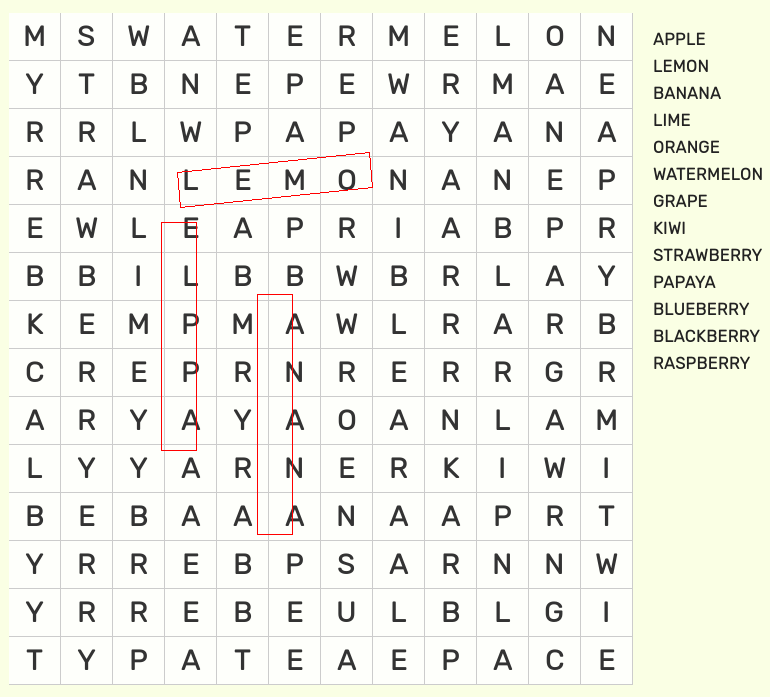
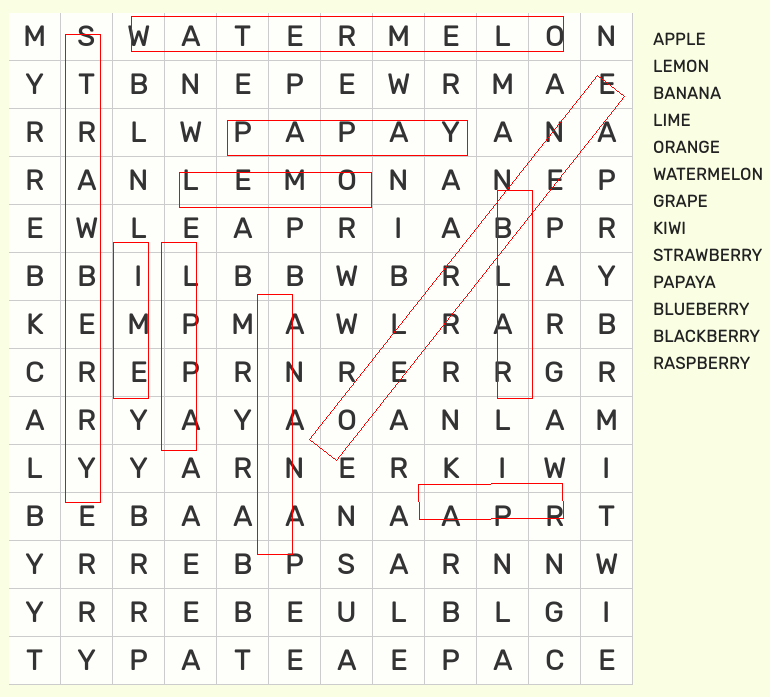
draw.c

Changed region(s): [[0.2182, 0.241, 0.2494, 0.2712]]

diff --git a/neuron_network/draw.c b/neuron_network/draw.c
@@ -123,7 +123,7 @@ void draw()
     fin_coo(coord);
     SDL_Surface *image = IMG_Load("data/images/l11.png");
     Uint32 redColor = SDL_MapRGB(image->format, 255, 0, 0);
-    for (size_t i = 0; i < 3; i++)
+    for (size_t i = 0; i < 10; i++)
     {
         if (coord[i][0]==0 && coord[i][1]==0 && coord[i][2]==0 && coord[i][3]==0)
         {
@@ -140,7 +140,9 @@ void draw()
 
             printf("%d,%d  %d,%d\n",x1,y1,x2,y2);
             //drawRectangle(image,x1,y1,x2,y2,35,redColor);
-            
+
+            drawRectangle(image,x1,y1,x2,y2,35,redColor);
+
             
 
         }

diff --git a/UI/main.c b/UI/main.c
@@ -277,9 +277,11 @@ void image_button(GtkWidget* widget, gpointer data)
     else if (strcmp(buttonLabel, "Solver") == 0) 
     {
 
-            g_print("re");
+            //run_draw();
+
+           
             run_solver(2);
- 
+
 
 
         
